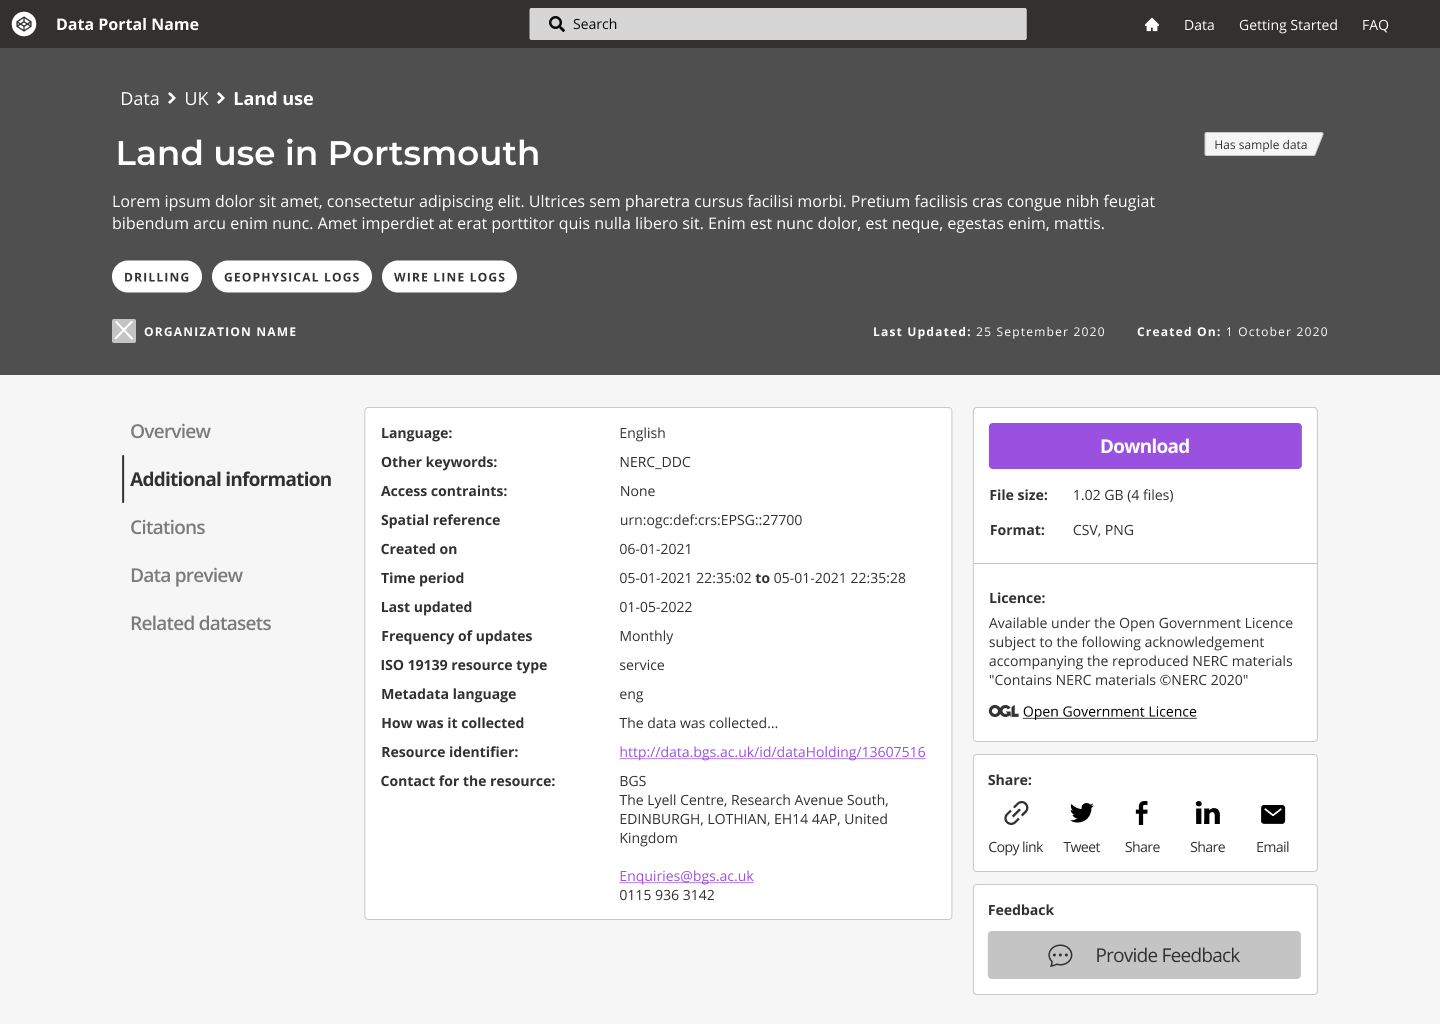
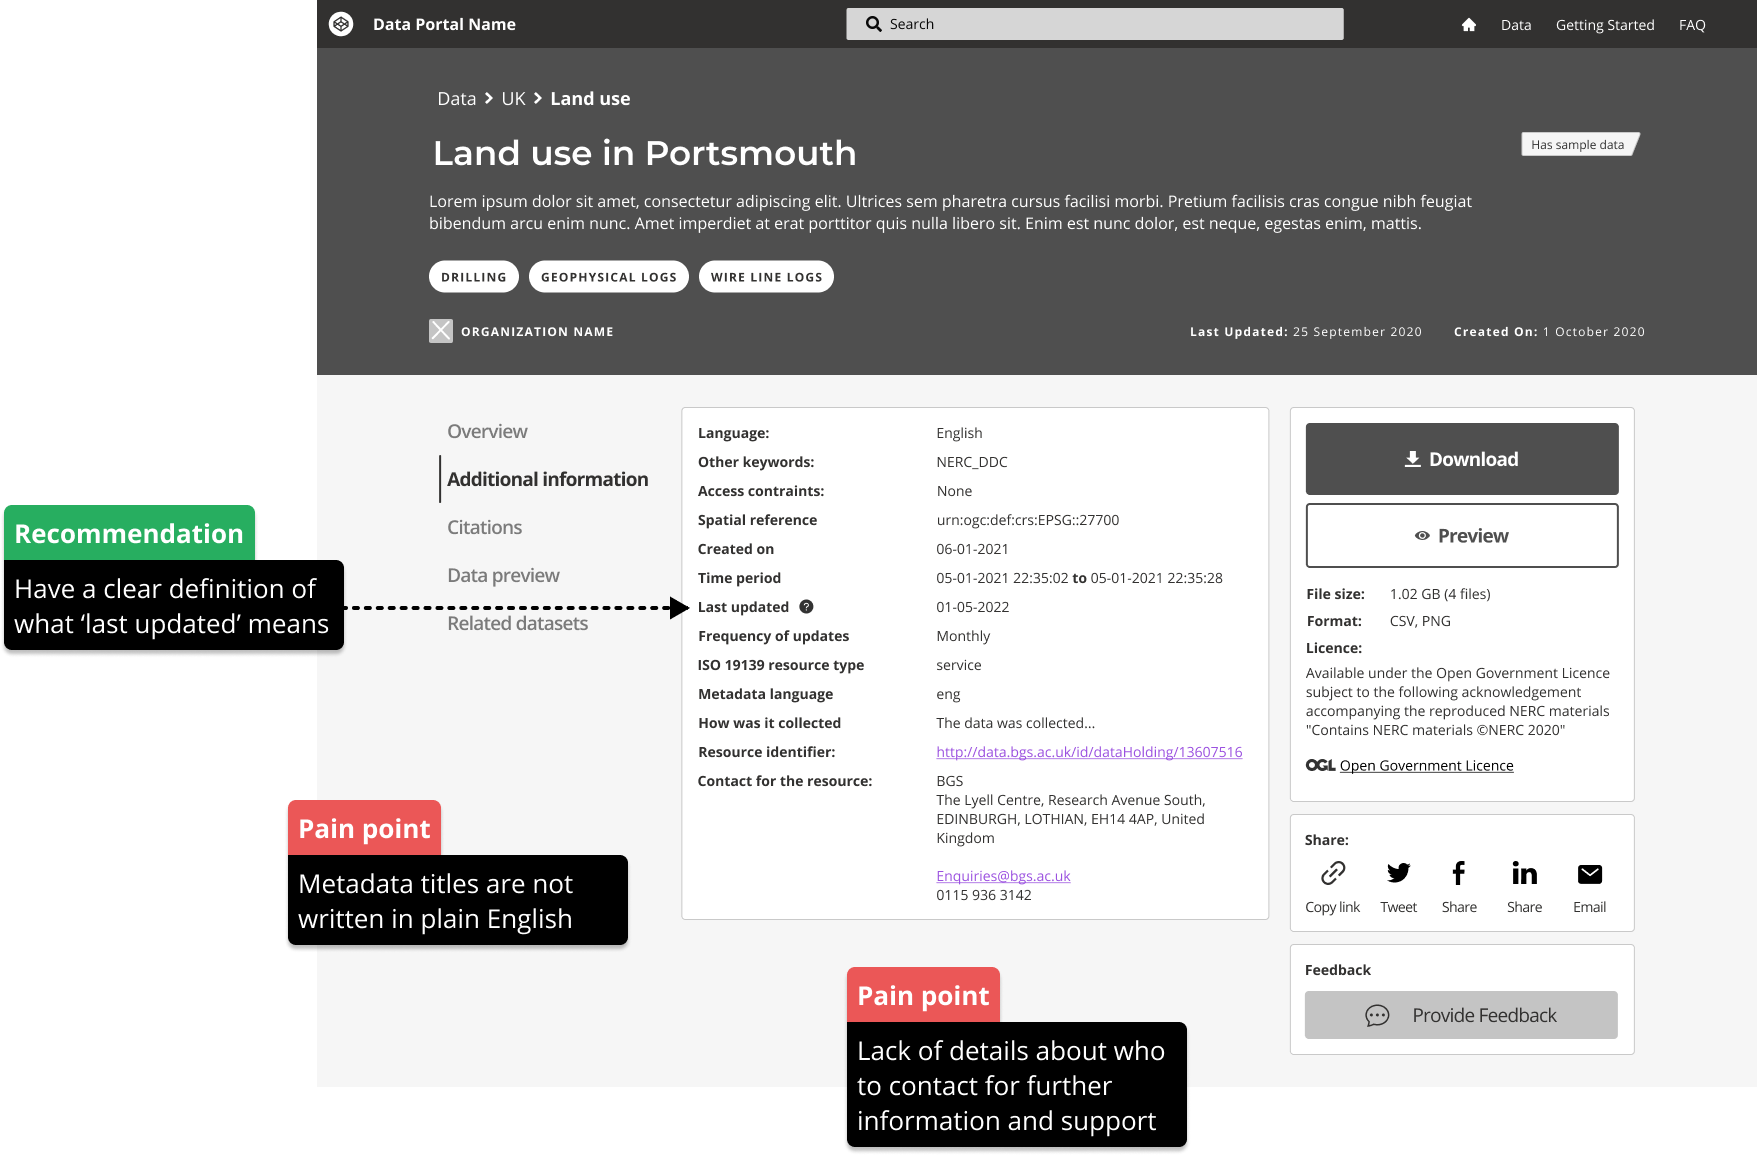
updated annotations for dataset details page

Changed region(s): [[0.0, 0.0, 1.0, 1.0], [0.0, 0.4062, 0.2188, 0.625], [0.9062, 0.4688, 0.9375, 0.5]]

diff --git a/docs/main-content/pages/dataset-details.md b/docs/main-content/pages/dataset-details.md
@@ -46,7 +46,7 @@
 
 <div class="image-container">
 
-<a href="/dd3-wireframes/_media/example-pages/dataset-details-annotated.png" target="_blank"><img src="/dd3-wireframes/_media/example-pages/dataset-details-annotated.png" data-no-zoom/></a>
+<a href="/dd3-wireframes/_media/example-pages/dataset-details/map-preview-annotated.png" target="_blank"><img src="/dd3-wireframes/_media/example-pages/dataset-details/map-preview-annotated.png" data-no-zoom/></a>
 
 *Dataset preview*
 
@@ -59,6 +59,16 @@
 <a href="/dd3-wireframes/_media/example-pages/dataset-details/related-list.png" target="_blank"><img src="/dd3-wireframes/_media/example-pages/dataset-details/related-list.png" data-no-zoom/></a>
 
 *Related datasets*
+
+</div>
+
+<br>
+
+<div class="image-container">
+
+<a href="/dd3-wireframes/_media/example-pages/dataset-details/partial-download-annotated.png" target="_blank"><img src="/dd3-wireframes/_media/example-pages/dataset-details/partial-download-annotated.png" data-no-zoom/></a>
+
+*Option to download selected files from a dataset*
 
 </div>
 
